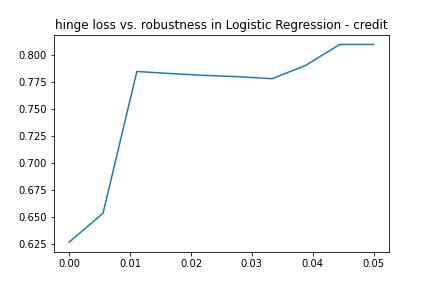
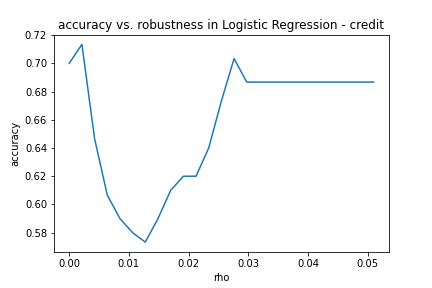
Add code

diff --git a/robust_decision_tree.py b/robust_decision_tree.py
@@ -20,7 +20,8 @@ from utils import load_data
 
 np.random.seed(1)
 
-DATA_LIST = ["synthetic"]
+# DATA_LIST = ["credit", "wine", "synthetic"]
+DATA_LIST = ["credit"]
 
 
 def find_all_parents(node):
@@ -36,27 +37,20 @@ def find_all_parents(node):
     return left, right
 
 
-def get_loss(X_test, Y_test, node_labels):
+def get_acc(X_test, Y_test, node_labels):
     predictions = []
     for i in range(len(X_test)):
         test = X_test[i]
         cur_node = 0
-        while D[cur_node].x != 0:
+        while D[cur_node].x == 0:
             W_np = np.zeros(NUM_FEATURES)
             for j in range(NUM_FEATURES):
                 W_np[j] = A[cur_node, j].x
             if W_np.dot(test) < B[cur_node].x:
                 cur_node = 2 * cur_node + 1
-                if D[cur_node].x == 0:
-                    predictions.append(node_labels[cur_node])
-                    break
             else:
                 cur_node = 2 * cur_node + 2
-                if D[cur_node].x == 0:
-                    predictions.append(node_labels[cur_node])
-                    break
-    print("acc", sum(Y_test == np.array(predictions))/len(Y_test))
-    #return hinge_loss(Y_test, predictions)
+        predictions.append(node_labels[cur_node])
     return sum(Y_test == np.array(predictions))/len(Y_test)
 
 
@@ -64,30 +58,20 @@ def get_node_labels(X_train, Y_train):
     pred_count = {}
     for i in range(len(X_train)):
         cur_node = 0
-        while D[cur_node].x != 0:
+        while D[cur_node].x == 0:
             W_np = np.zeros(NUM_FEATURES)
             for j in range(NUM_FEATURES):
                 W_np[j] = A[cur_node, j].x
             if W_np.dot(X_train[i]) < B[cur_node].x:
                 cur_node = 2 * cur_node + 1
-                if D[cur_node].x == 0:
-                    if cur_node not in pred_count:
-                        pred_count[cur_node] = [0, 0]
-                    if Y_train[i] == 1:
-                        pred_count[cur_node][1] += 1
-                    else:
-                        pred_count[cur_node][0] += 1
-                    break
             else:
                 cur_node = 2 * cur_node + 2
-                if D[cur_node].x == 0:
-                    if cur_node not in pred_count:
-                        pred_count[cur_node] = [0, 0]
-                    if Y_train[i] == 1:
-                        pred_count[cur_node][1] += 1
-                    else:
-                        pred_count[cur_node][0] += 1
-                    break
+        if cur_node not in pred_count:
+            pred_count[cur_node] = [0, 0]
+            if Y_train[i] == 1:
+                pred_count[cur_node][1] += 1
+            else:
+                pred_count[cur_node][0] += 1
     for k in pred_count:
         count = pred_count[k]
         if count[0] > count[1]:
@@ -97,14 +81,8 @@ def get_node_labels(X_train, Y_train):
     return pred_count
 
 
-
-
-
-
 for i, dataset in enumerate(DATA_LIST):
     plt.figure(i)
-    plt.xlabel = 'rho'
-    plt.ylabel = 'hinge loss'
     X_train, X_test, Y_train, Y_test = load_data(dataset)
     NUM_DATA = X_train.shape[0]
     NUM_FEATURES = X_train.shape[1]
@@ -121,6 +99,7 @@ for i, dataset in enumerate(DATA_LIST):
 
     rho_list = np.linspace(0, 0.05, 10)
     for rho in rho_list:
+        print(rho)
         ##################### Use Gurobi to train a Robust SVM ########################
 
         model = Model("Robust Decision Tree")
@@ -187,12 +166,13 @@ for i, dataset in enumerate(DATA_LIST):
 
         model.optimize()
 
-        print(D)
-        #node_labels = get_node_labels(X_train, Y_train)
-        #loss = get_loss(X_test, Y_test, node_labels)
-        #x_axis.append(rho)
-        #y_axis.append(loss)
+        node_labels = get_node_labels(X_train, Y_train)
+        acc = get_acc(X_test, Y_test, node_labels)
+        x_axis.append(rho)
+        y_axis.append(acc)
 
-    #plt.title("hinge loss vs. robustness in Decision Tree - {}".format(dataset))
-    #plt.plot(x_axis, y_axis)
-    #plt.savefig("DT_{}.png".format(dataset))
+    plt.title("accuracy vs. robustness in Decision Tree - {}".format(dataset))
+    plt.plot(x_axis, y_axis)
+    plt.xlabel('rho')
+    plt.ylabel('accuracy')
+    plt.savefig("DT_{}.png".format(dataset))

diff --git a/robust_svm.py b/robust_svm.py
@@ -22,10 +22,9 @@ from gurobipy import *
 import matplotlib.pyplot as plt
 from utils import load_data
 
-np.random.seed(100)
+np.random.seed(1)
 
-# DATA_LIST = ["digit", "wine", "credit"]
-DATA_LIST = ["wine", "credit"]
+DATA_LIST = ["synthetic", "wine", "credit"]
 
 
 i = 0
@@ -51,8 +50,11 @@ for dataset in DATA_LIST:
 
   print("Now processing dataset: {}".format(dataset))
   print("# features: {}, # data points: {}".format(NUM_FEATURES, NUM_DATA))
-
-  rho_list = np.linspace(0, 0.05, 10)
+  
+  if dataset == 'synthetic':
+      rho_list = np.linspace(0, 0.5, 25)
+  else:
+      rho_list = np.linspace(0, 0.0002, 25)
 
   ########### Use Gurobi to train SVMs under different degrees of robustness #############
   for rho in rho_list:
@@ -62,14 +64,15 @@ for dataset in DATA_LIST:
     itas = SVM.addVars(range(NUM_DATA), vtype=GRB.CONTINUOUS, obj=[1]*NUM_DATA)
     W = SVM.addVars(range(NUM_FEATURES), lb=-GRB.INFINITY, vtype=GRB.CONTINUOUS, obj=[0]*NUM_FEATURES)
     b = SVM.addVar(vtype=GRB.CONTINUOUS, lb=-GRB.INFINITY, obj=0)
+    W_abs = SVM.addVars(range(NUM_FEATURES), vtype=GRB.CONTINUOUS, obj=0)
 
     SVM.modelSense = GRB.MINIMIZE
     SVM.Params.outputFlag = 0
+    SVM.addConstrs(W_abs[i] == abs_(W[i]) for i in range(NUM_FEATURES))
 
     for i in range(NUM_DATA):
       SVM.addConstr(Y_train[i] * (quicksum([W[j] * X_train[i][j] for j in \
-                    range(NUM_FEATURES)]) - b) - rho * quicksum([W[k] * W[k] for k in \
-                    range(NUM_FEATURES)]) >= 1 - itas[i])
+                    range(NUM_FEATURES)]) - b) - rho * W_abs.sum('*') >= 1 - itas[i])
 
     SVM.optimize()
 
@@ -80,17 +83,21 @@ for dataset in DATA_LIST:
     Y_pred = X_test @ W_np - b.x
     # Y_pred = np.where(Y_pred > 0, 1, -1)
     Y_pred = Y_pred.reshape((Y_pred.shape[0],))
-
+    Y_pred = np.where(Y_pred < 0, -1, Y_pred)
+    Y_pred = np.where(Y_pred >= 0, 1, Y_pred)
     print("Y_test: {}, Y_pred: {}".format(Y_test.shape, Y_pred.shape))
-    # acc = accuracy_score(Y_test, Y_pred)
-    loss = hinge_loss(Y_test, Y_pred)
-    print("the test hinge loss for SVM under rho = {}: {}".format(rho, loss))
+    acc = sum(Y_pred.flatten() == Y_test) / len(Y_test)
+    #loss = hinge_loss(Y_test, Y_pred)
+    #print("the test hinge loss for SVM under rho = {}: {}".format(rho, loss))
 
     x_axis.append(rho)
-    y_axis.append(loss)
+    y_axis.append(acc)
 
-  plt.title("loss vs. robustness in SVM - {}".format(dataset))
+  plt.title("accuracy vs. robustness in SVM - {}".format(dataset))
   plt.plot(x_axis, y_axis)
+  plt.xlabel('rho')
+  plt.ylabel('accuracy')
+  plt.ticklabel_format(style='sci', axis='x', scilimits=(0,0))
   plt.savefig("SVM_{}.png".format(dataset))
 
   i += 1

diff --git a/logistic_regression.py b/logistic_regression.py
@@ -20,7 +20,7 @@ from utils import load_data
 np.random.seed(1)
 
 
-DATA_LIST = ["wine", "credit"]
+DATA_LIST = ["synthetic", "wine", "credit"]
 
 for i, dataset in enumerate(DATA_LIST):
     plt.figure(i)
@@ -34,7 +34,10 @@ for i, dataset in enumerate(DATA_LIST):
     print("Now processing dataset: {}".format(dataset))
     print("# features: {}, # data points: {}".format(NUM_FEATURES, NUM_DATA))
 
-    rho_list = np.linspace(0, 0.1, 5)
+    if dataset == 'synthetic':
+        rho_list = np.linspace(0, 0.5, 25)
+    else:
+        rho_list = np.linspace(0, 0.05, 25)
 
     ################# Use Gurobi to train a Robust Logistic Regression #################
     for rho in rho_list:
@@ -67,14 +70,19 @@ for i, dataset in enumerate(DATA_LIST):
             W_np[j] = beta[j].x
         W_np = W_np.reshape((W_np.shape[0], 1))
         Y_pred = X_test @ W_np + beta_0.x
-        Y_pred = 1/(1 + np.exp(-Y_pred))
-        Y_pred = Y_pred.reshape((Y_pred.shape[0],))
-        loss = hinge_loss(Y_test, Y_pred)
-        
+        Y_pred = np.where(Y_pred < 0, -1, Y_pred)
+        Y_pred = np.where(Y_pred >= 0, 1, Y_pred)
+        #Y_pred = 1/(1 + np.exp(-Y_pred))
+        #Y_pred = Y_pred.reshape((Y_pred.shape[0],))
+        acc = sum(Y_pred.flatten() == Y_test) / len(Y_test)
+        #loss = hinge_loss(Y_test, Y_pred)
         x_axis.append(rho)
-        y_axis.append(loss)
-    plt.title("hinge loss vs. robustness in Logistic Regression - {}".format(dataset))
+        y_axis.append(acc)
+    plt.title("accuracy vs. robustness in Logistic Regression - {}".format(dataset))
     plt.plot(x_axis, y_axis)
+    plt.xlabel('rho')
+    plt.ylabel('accuracy')
+    plt.ticklabel_format(style='sci', axis='x', scilimits=(0,0))
     plt.savefig("LR_{}.png".format(dataset))
 
 
